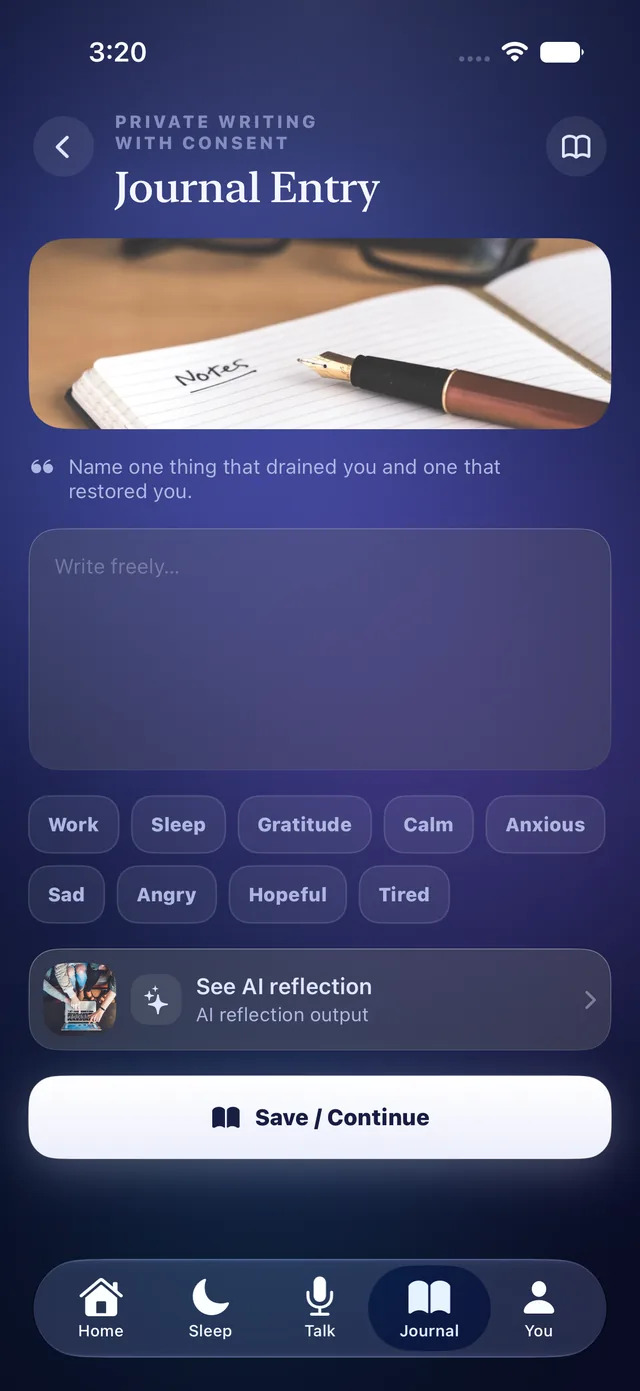
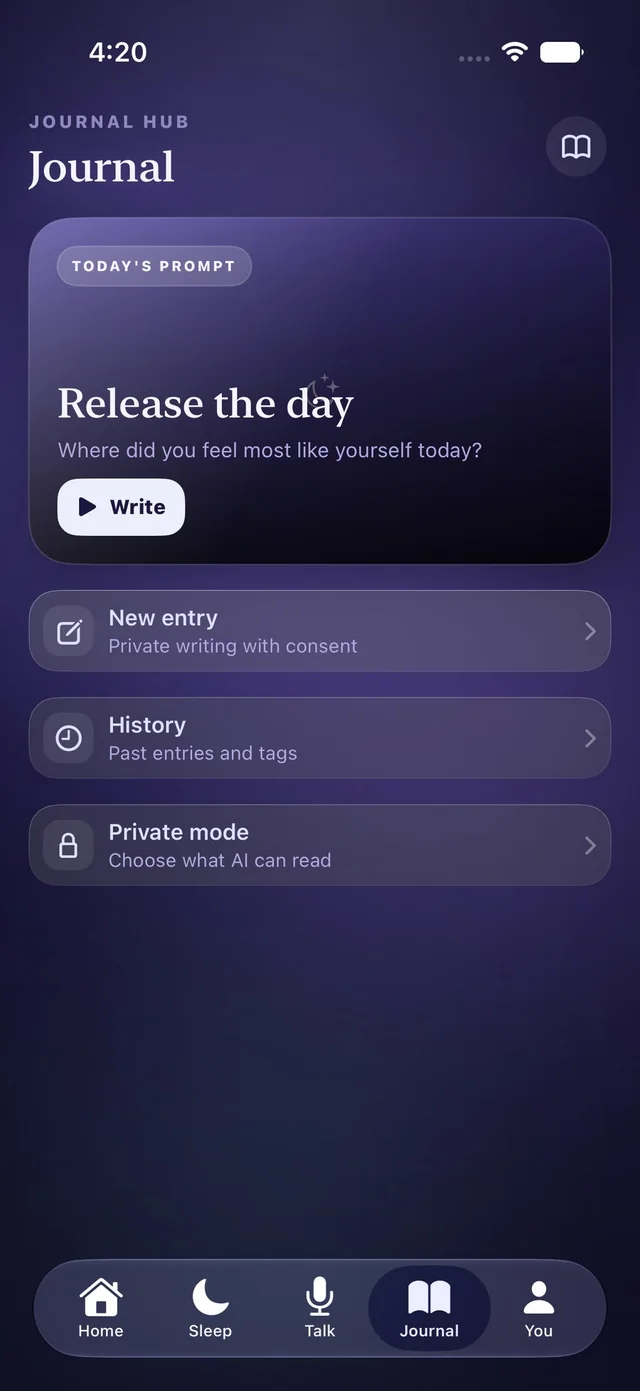
Landing: warm-refresh the two showcase thumbnails
The showcase strip still paired the warm home hero with two cool-palette
thumbnails (sleep player + journal) from the pre-refresh build. Regenerated both
from the warm iOS build (640×1391 webp) so all three screens read as one
palette. Closes the last stale asset from the visual refresh (TODO line 170).

diff --git a/docs/TODO.md b/docs/TODO.md
@@ -167,7 +167,9 @@ sequence tokens → web onboarding/auth → web shell/screens → iOS polish →
   Sleep (violet "This morning" hero), Journal ("Release the day" prompt hero), Insights
   (weekly-headline hero + metric bars) all rebuilt with PageHeader + HeroCard + SectionTitle,
   data logic untouched. Build green; screenshotted signed-in against live backend.
-- [ ] Optional: refresh the two landing showcase thumbnails via an XCUITest capture.
+- [x] Refresh the two landing showcase thumbnails (2026-07-06): sleep-player + journal
+  regenerated from the warm iOS build so the showcase matches the warm-refreshed hero
+  (all three screens now one palette).
 
 ### Web app v1 + admin v2 — plan in [WEB_APP_PLAN.md](WEB_APP_PLAN.md)
 - [x] Infra prep (2026-07-03): `apps/app` Next.js scaffold (:3002), CORS origin added